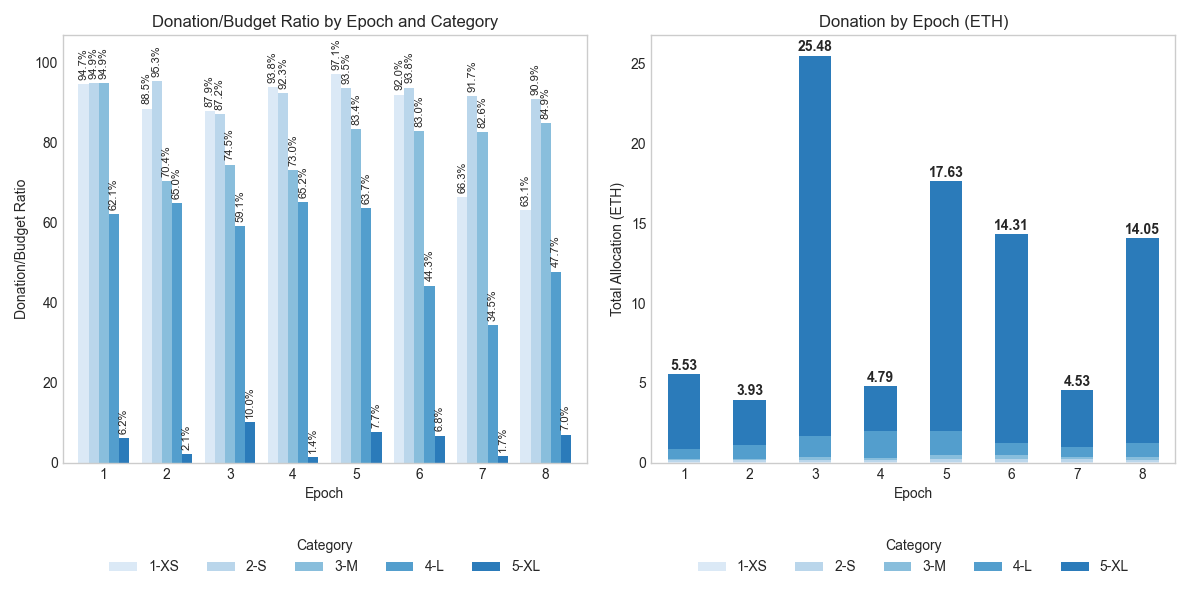
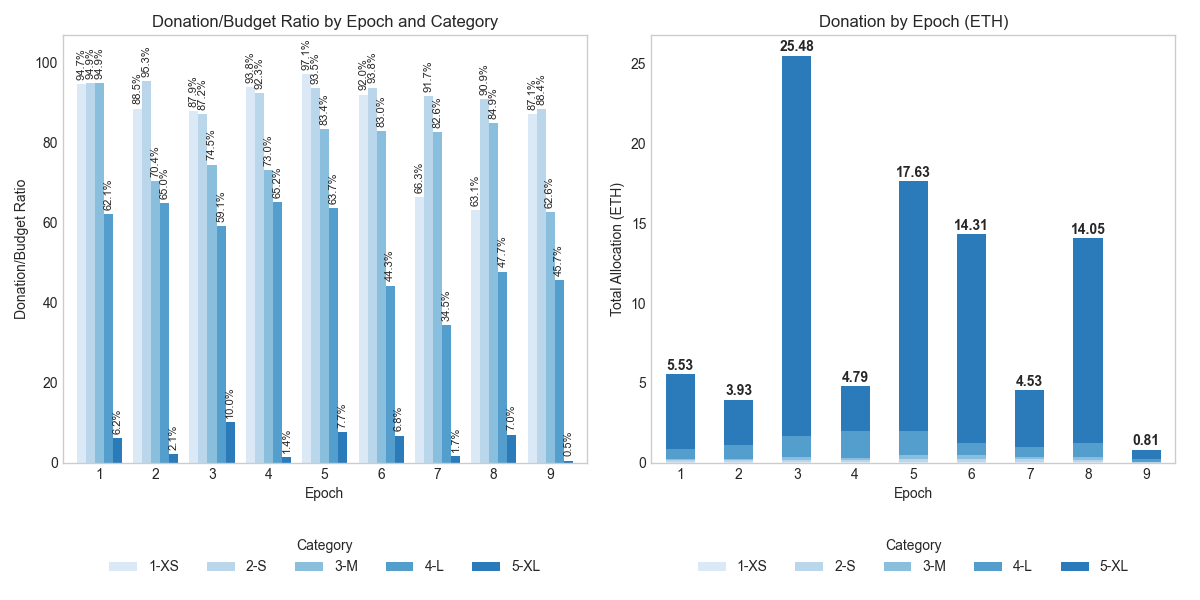
update flows

Changed region(s): [[0.0617, 0.06, 0.4933, 0.81], [0.555, 0.06, 0.9867, 0.81]]

diff --git a/_includes/e8/table_amounts.html b/_includes/e8/table_amounts.html
@@ -86,11 +86,11 @@
     <tr>
       <td style="width: 1%; text-align: center; padding: 8px; word-wrap: break-word; white-space: normal;">9</td>
       <td style="width: 1%; text-align: center; padding: 8px; word-wrap: break-word; white-space: normal;">173.609</td>
-      <td style="width: 1%; text-align: center; padding: 8px; word-wrap: break-word; white-space: normal;">0.539</td>
-      <td style="width: 1%; text-align: center; padding: 8px; word-wrap: break-word; white-space: normal;">0.336</td>
-      <td style="width: 1%; text-align: center; padding: 8px; word-wrap: break-word; white-space: normal;">99.7</td>
-      <td style="width: 1%; text-align: center; padding: 8px; word-wrap: break-word; white-space: normal;">0.3</td>
-      <td style="width: 1%; text-align: center; padding: 8px; word-wrap: break-word; white-space: normal;">62.4</td>
+      <td style="width: 1%; text-align: center; padding: 8px; word-wrap: break-word; white-space: normal;">113.015</td>
+      <td style="width: 1%; text-align: center; padding: 8px; word-wrap: break-word; white-space: normal;">0.813</td>
+      <td style="width: 1%; text-align: center; padding: 8px; word-wrap: break-word; white-space: normal;">34.9</td>
+      <td style="width: 1%; text-align: center; padding: 8px; word-wrap: break-word; white-space: normal;">65.1</td>
+      <td style="width: 1%; text-align: center; padding: 8px; word-wrap: break-word; white-space: normal;">0.7</td>
     </tr>
   </tbody>
 </table>

diff --git a/_includes/e8/table_cohorts.html b/_includes/e8/table_cohorts.html
@@ -76,11 +76,11 @@
     </tr>
     <tr>
       <td style="width: 1%; text-align: center; padding: 8px; word-wrap: break-word; white-space: normal;">9</td>
+      <td style="width: 1%; text-align: center; padding: 8px; word-wrap: break-word; white-space: normal;">10</td>
+      <td style="width: 1%; text-align: center; padding: 8px; word-wrap: break-word; white-space: normal;">4</td>
+      <td style="width: 1%; text-align: center; padding: 8px; word-wrap: break-word; white-space: normal;">3</td>
       <td style="width: 1%; text-align: center; padding: 8px; word-wrap: break-word; white-space: normal;">1</td>
-      <td style="width: 1%; text-align: center; padding: 8px; word-wrap: break-word; white-space: normal;">1</td>
-      <td style="width: 1%; text-align: center; padding: 8px; word-wrap: break-word; white-space: normal;">0</td>
-      <td style="width: 1%; text-align: center; padding: 8px; word-wrap: break-word; white-space: normal;">0</td>
-      <td style="width: 1%; text-align: center; padding: 8px; word-wrap: break-word; white-space: normal;">1</td>
+      <td style="width: 1%; text-align: center; padding: 8px; word-wrap: break-word; white-space: normal;">7</td>
     </tr>
   </tbody>
 </table>

diff --git a/_includes/e8/table_users.html b/_includes/e8/table_users.html
@@ -68,9 +68,9 @@
     <tr>
       <td style="width: 1%; text-align: center; padding: 8px; word-wrap: break-word; white-space: normal;">9</td>
       <td style="width: 1%; text-align: center; padding: 8px; word-wrap: break-word; white-space: normal;">1034</td>
-      <td style="width: 1%; text-align: center; padding: 8px; word-wrap: break-word; white-space: normal;">5</td>
-      <td style="width: 1%; text-align: center; padding: 8px; word-wrap: break-word; white-space: normal;">5</td>
-      <td style="width: 1%; text-align: center; padding: 8px; word-wrap: break-word; white-space: normal;">0.5</td>
+      <td style="width: 1%; text-align: center; padding: 8px; word-wrap: break-word; white-space: normal;">50</td>
+      <td style="width: 1%; text-align: center; padding: 8px; word-wrap: break-word; white-space: normal;">43</td>
+      <td style="width: 1%; text-align: center; padding: 8px; word-wrap: break-word; white-space: normal;">4.8</td>
     </tr>
   </tbody>
 </table>

diff --git a/_includes/e8/current_datetime.html b/_includes/e8/current_datetime.html
@@ -7,6 +7,6 @@
     <title>Current Date and Time</title>
 </head>
 <body>
-    <p>Last update: 2025-10-08 19:41:23</p>
+    <p>Last update: 2025-10-09 16:03:44</p>
 </body>
 </html>
